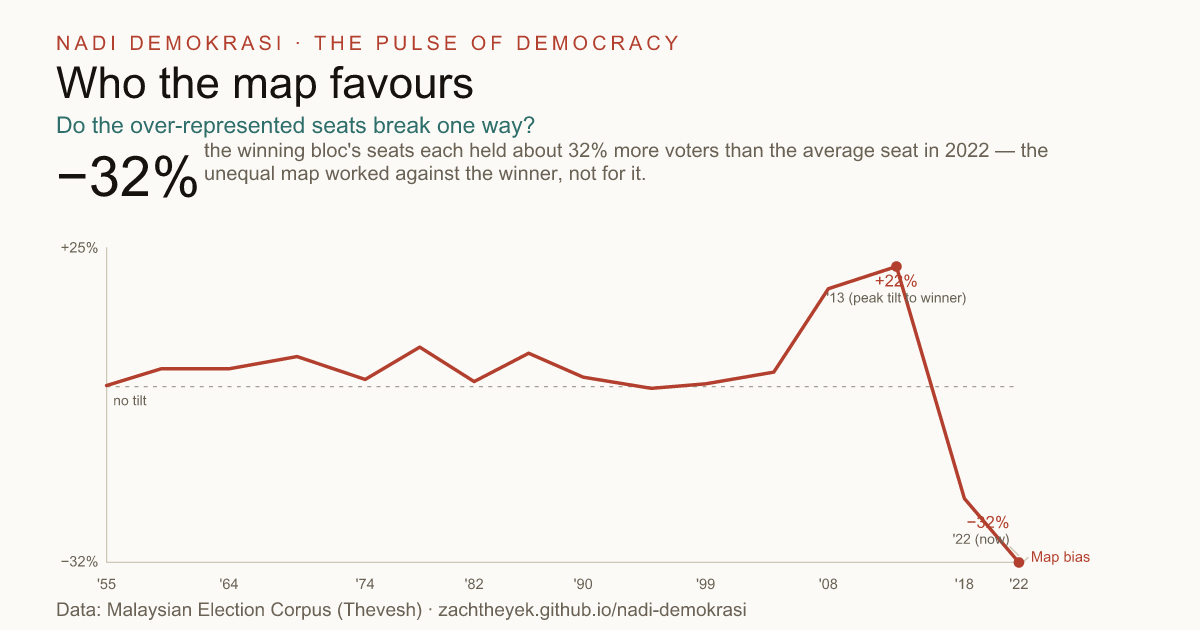
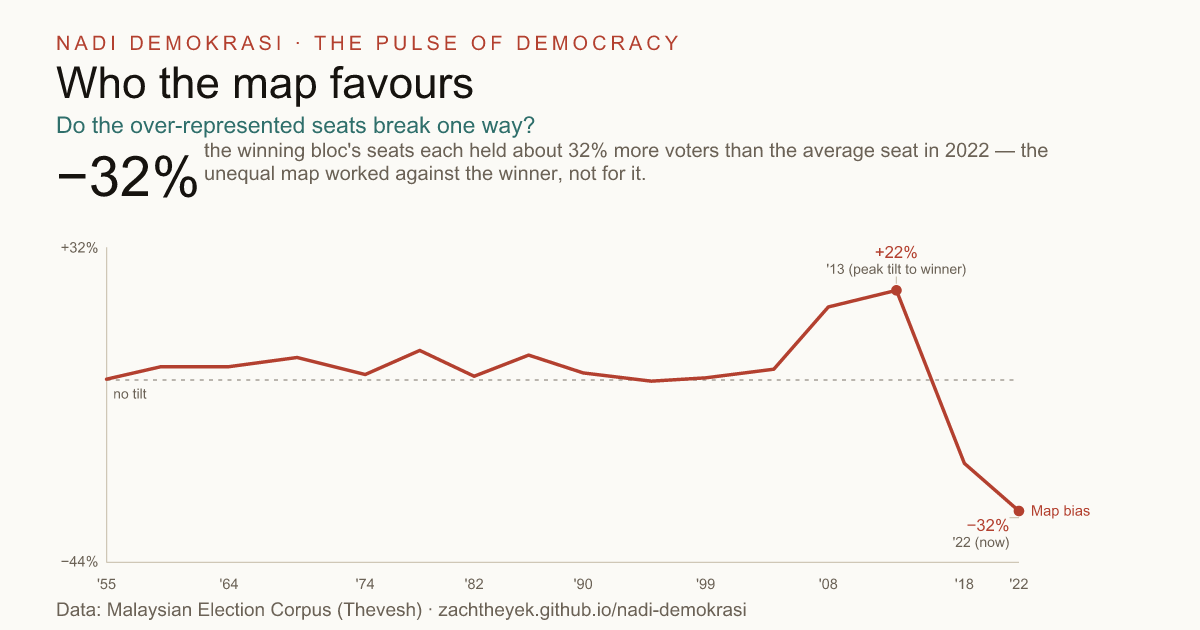
Round 8: teal callout highlight readable, map-bias callouts de-collided, dek, CITATION.cff
- Winner's-bonus "won on 46/47/46%" figures: brighter teal (C.tealHi) + bold so they clearly
  read as teal at label size. The OG renderer (resvg) ignores tspan font-weight, so the colour
  now carries the highlight there; the page gets bold too.
- "Who the map favours": added head/foot room and pinned the peak callout above / the latest
  callout below, so neither collides with the steep line (matches the other plots).
- Malapportionment note now points forward to the two new boundary sections instead of saying
  gerrymandering "is not measured".
- Hero dek: added "volatility", reordered tail to "…competitiveness, volatility, turnout, and
  representation".
- Added CITATION.cff (GitHub "Cite this repository"), crediting MECo/Thevesh as a reference.

diff --git a/src/main.ts b/src/main.ts
@@ -177,7 +177,7 @@ function sections(): Sec[] {
     /* 3 ─ the other source: unequal districts */
     "malapportionment": {
       body: `Every seat elects one MP, but seats hold wildly unequal numbers of voters — a rural seat can have a fraction of an urban one's electorate, so a rural vote counts for more. The Samuels–Snyder index gives the share of seats that would have to be reallocated to equalise voters per seat. Malaysia's has climbed to ${hl(num(mPeak.malapportionment ?? 0, 1) + "% in " + mPeak.year)}, from a low of ${hl(num(mLow.malapportionment ?? 0, 1) + "% in " + mLow.year)}. Anything above a few percent is high; ${hl("above ~15% is among the most malapportioned in the democratic world")}. This is a <em>structural</em> distortion, separate from <a href="#seat-bonus">the winner's bonus</a> — and unlike that bonus, it has not gone away.`,
-      note: `Malapportionment — unequal district sizes — is one of two ways boundaries can distort an election; the other is <em>gerrymandering</em>, drawing the shapes to pack or split a party's voters, which this index does not measure. Both are baked into where the lines are drawn, so they persist across changes of government — a large part of why <a href="#disproportionality">disproportionality</a> stayed high even as <a href="#seat-bonus">the winner's bonus</a> collapsed.`,
+      note: `Malapportionment — unequal district sizes — is one of two ways boundaries can distort an election; the other is <em>gerrymandering</em>, drawing the shapes to pack or split a party's voters, which this index does not measure — the next two sections take that up (<a href="#map-bias">who the map favours</a> and <a href="#compactness">district shapes</a>). Both are baked into where the lines are drawn, so they persist across changes of government — a large part of why <a href="#disproportionality">disproportionality</a> stayed high even as <a href="#seat-bonus">the winner's bonus</a> collapsed.`,
       method: {
         eq: String.raw`\mathrm{MAL} = \tfrac{1}{2} \textstyle\sum_i \left\lvert \dfrac{1}{n} - \dfrac{e_i}{E} \right\rvert`,
         where: `<strong>n</strong> is the number of seats, <strong>e<sub>i</sub></strong> the registered electors in seat <em>i</em>, and <strong>E</strong> the total electorate. Each seat carries an equal 1 / n of the seats but an unequal e<sub>i</sub> / E of the voters; the index sums those gaps and halves them — the fraction of seats "in the wrong place" under one-person-one-vote.`,
@@ -310,7 +310,7 @@ function render() {
   <header class="hero"><div class="wrap">
     <div class="kicker">Nadi Demokrasi · The Pulse of Democracy</div>
     <h1>Malaysia's democracy,<br>in numbers</h1>
-    <p class="dek">Seven decades of general elections measured with the standard tools of political science — disproportionality, malapportionment, gerrymandering, fragmentation, competitiveness, representation and turnout.</p>
+    <p class="dek">Seven decades of general elections measured with the standard tools of political science — disproportionality, malapportionment, gerrymandering, fragmentation, competitiveness, volatility, turnout, and representation.</p>
     <div class="meta">${ROWS.length} federal general elections · ${F.year}–${L.year} · reproducible &amp; citable</div>
     <div class="herobtns">
       <button class="btn" id="shareBtn">${X_ICON} Share</button>
